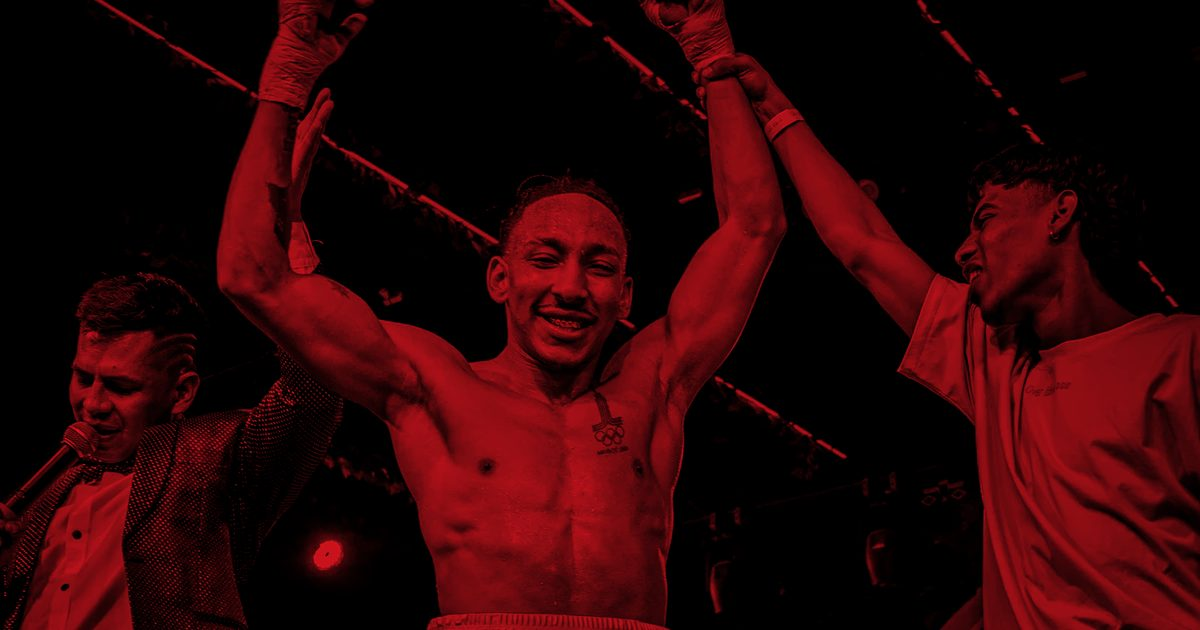
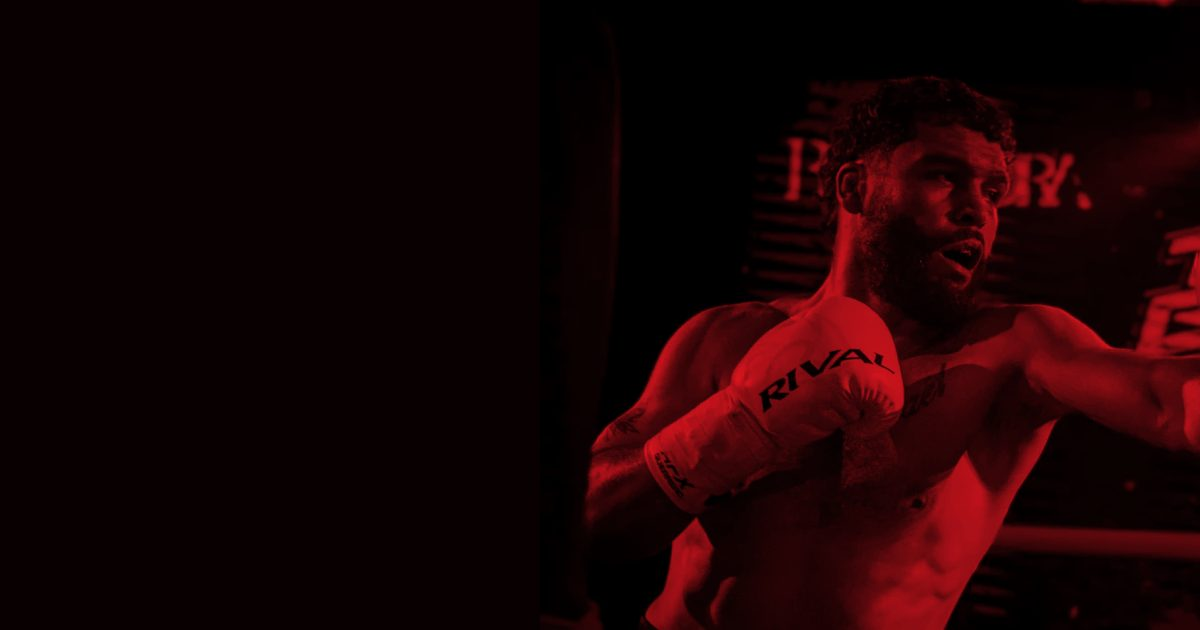
Próximamente: Gabo (TrueBoxing 4) abre la rotación, sin fotos de brazo levantado
Fotos de Gabo del Drive (6 sep 2026) recortadas en vertical, mezcladas con
TB3 y ago 2025. En escritorio la foto va en un panel a la derecha.
Tarjeta para compartir con Gabo.

diff --git a/src/components/Teaser.tsx b/src/components/Teaser.tsx
@@ -7,13 +7,19 @@ import { Logo, Wordmark } from "./Logo";
 import { Signup } from "./Signup";
 import s from "./teaser.module.css";
 
-/** Fotos reales de TrueBoxing 3 (abr 2026) y de la noche del 26 ago 2025, del Drive de One True. */
+/**
+ * Fotos reales del Drive de One True: Gabo en TrueBoxing 4 (6 sep 2026) abre la rotación,
+ * mezclado con TrueBoxing 3 (abr 2026) y la noche del 26 ago 2025.
+ * Las de Gabo están recortadas en vertical y centradas en él.
+ */
 const PHOTOS = [
-  { src: "/img/tb3-grito.webp", pos: "58% 28%" },
-  { src: "/img/ago25-presion.webp", pos: "50% 30%" },
+  { src: "/img/gabo-golpe.webp", pos: "50% 22%" },
   { src: "/img/tb3-golpe.webp", pos: "50% 35%" },
+  { src: "/img/gabo-esquina.webp", pos: "40% 22%" },
   { src: "/img/ago25-gato.webp", pos: "62% 40%" },
+  { src: "/img/gabo-entrada.webp", pos: "60% 30%" },
   { src: "/img/tb3-impacto.webp", pos: "50% 40%" },
+  { src: "/img/gabo-combate.webp", pos: "50% 25%" },
 ];
 
 const PUNCHES = ["JAB", "CROSS", "HOOK", "UPPERCUT"];

diff --git a/src/components/teaser.module.css b/src/components/teaser.module.css
@@ -28,6 +28,10 @@
 }
 .photos { position: absolute; inset: 0; z-index: -2; background: var(--black); }
 .photos img { position: absolute; inset: 0; width: 100%; height: 100%; object-fit: cover; filter: grayscale(1) contrast(1.25) brightness(.72); will-change: transform, opacity; }
+/* Escritorio: la foto vive en un panel a la derecha para que el protagonista no quede detrás del titular */
+@media (min-width: 900px) {
+  .photos img { left: 36%; width: 64%; }
+}
 .tint { position: absolute; inset: 0; background: var(--red); mix-blend-mode: multiply; opacity: .78; }
 .shade {
   position: absolute; inset: 0;
